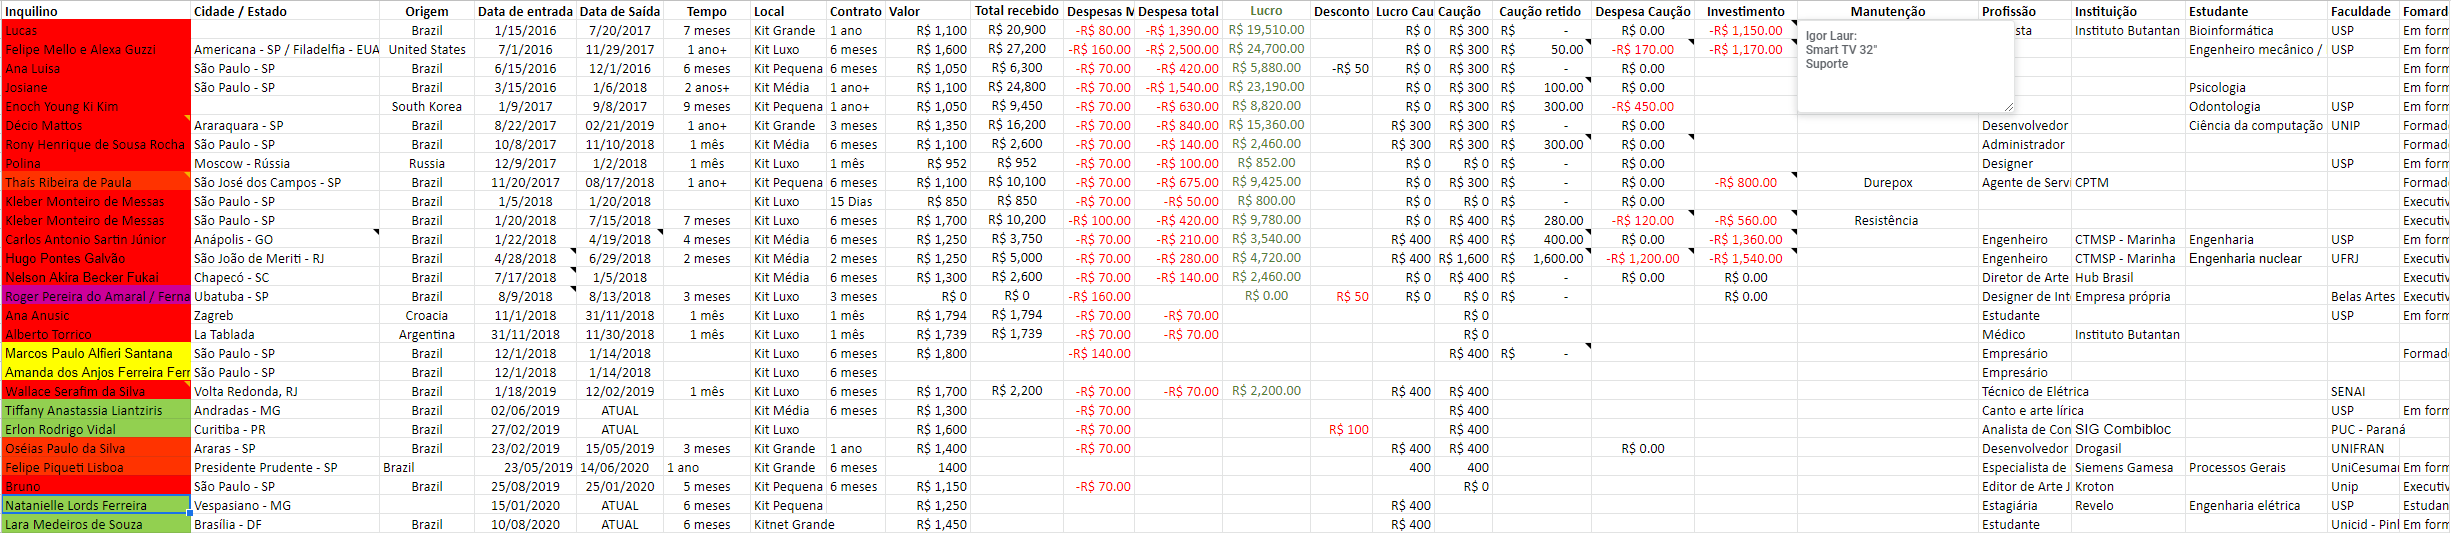
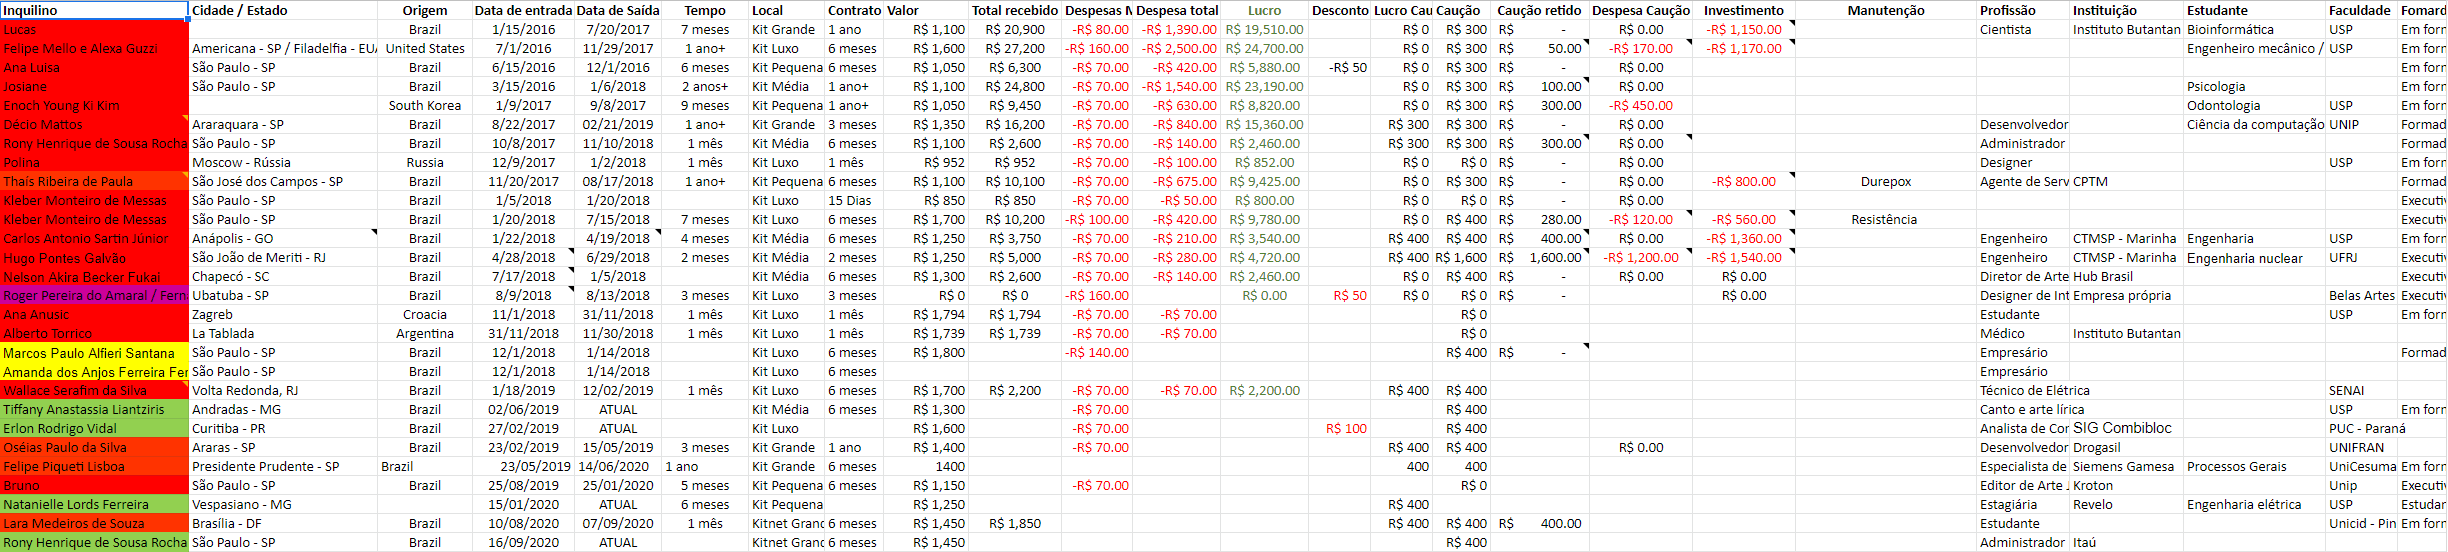
Cadastro novo inquilino Rony

Changed region(s): [[0.0, 0.0, 1.0, 1.0]]

diff --git a/sistema/login/listagem.php b/sistema/login/listagem.php
@@ -111,8 +111,8 @@
                     </tr>
                     <tr>
                         <td>Grande</td>
-                        <td></td>
-                        <td></td>
+                        <td>Rony</td>
+                        <td>16</td>
                         <td></td>
                     </tr>
                     <tr>
